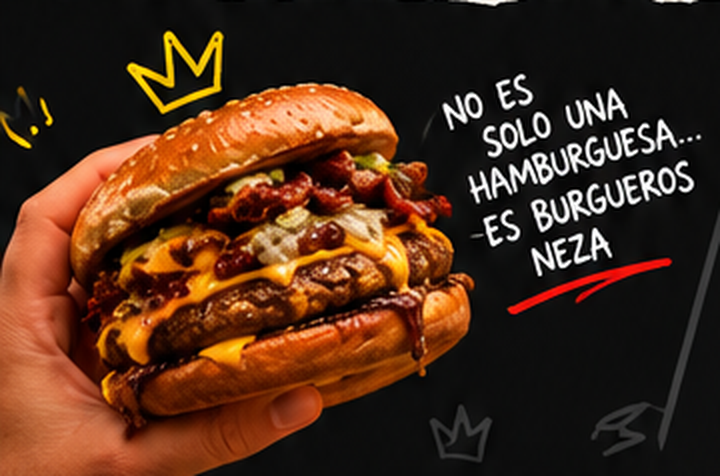
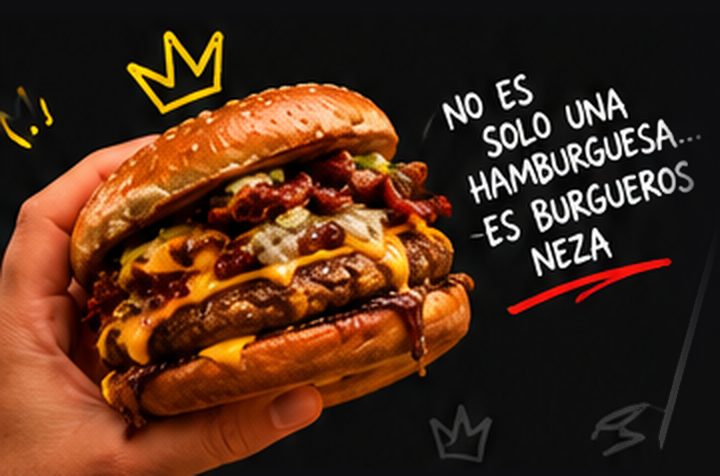
fix(nosotros): agrandar imagen de hamburguesa para abarcar toda la altura de la seccion negra y anclar brazo naturalmente al borde inferior

diff --git a/index.html b/index.html
@@ -397,25 +397,25 @@
   <!-- Torn paper divider top transition -->
   <div class="torn-divider-top"></div>
 
-  <section id="nosotros" class="bg-[#0E0E10] text-white py-10 sm:py-14 relative overflow-hidden">
+  <section id="nosotros" class="bg-[#0E0E10] text-white relative overflow-hidden">
     <div class="max-w-7xl mx-auto px-4 sm:px-6 lg:px-8 relative z-10">
       
-      <div class="grid grid-cols-1 lg:grid-cols-12 gap-8 lg:gap-8 items-center">
+      <div class="grid grid-cols-1 lg:grid-cols-12 gap-8 lg:gap-10 items-stretch">
         
-        <!-- Left Column: Hand holding gigantic burger with street slogan -->
-        <div class="lg:col-span-5 flex justify-center lg:justify-start">
-          <div class="relative max-w-md w-full transform transition-transform hover:scale-102 duration-300">
+        <!-- Left Column: Hand holding gigantic burger spanning full height of black section -->
+        <div class="lg:col-span-5 flex items-end justify-center lg:justify-start pt-6 sm:pt-8 lg:pt-0">
+          <div class="relative w-full max-w-lg lg:max-w-none flex items-end justify-center lg:justify-start h-full">
             <img src="assets/hand-burger.png" 
                  alt="Mano sosteniendo hamburguesa gigante - No es solo una hamburguesa... Es Burgueros Neza" 
-                 class="w-full h-auto object-contain rounded-2xl drop-shadow-2xl">
+                 class="w-full max-w-md sm:max-w-lg lg:max-w-none lg:h-full lg:w-auto object-contain object-bottom select-none pointer-events-none transform lg:scale-105 origin-bottom-left transition-transform duration-300">
           </div>
         </div>
 
         <!-- Right Column: Title and 4 feature columns -->
-        <div class="lg:col-span-7 flex flex-col pt-2 lg:pt-0">
+        <div class="lg:col-span-7 flex flex-col justify-center py-10 sm:py-14 lg:py-16">
           
           <!-- Title: "¿POR QUÉ ELEGIRNOS?" -->
-          <div class="mb-10 text-center lg:text-left">
+          <div class="mb-8 sm:mb-10 text-center lg:text-left">
             <h2 class="font-comic text-4xl sm:text-5xl lg:text-6xl uppercase tracking-wide leading-none inline-block">
               ¿POR QUÉ 
               <span class="brush-underline-yellow text-[#FDCC02] ml-2">ELEGIRNOS?</span>
